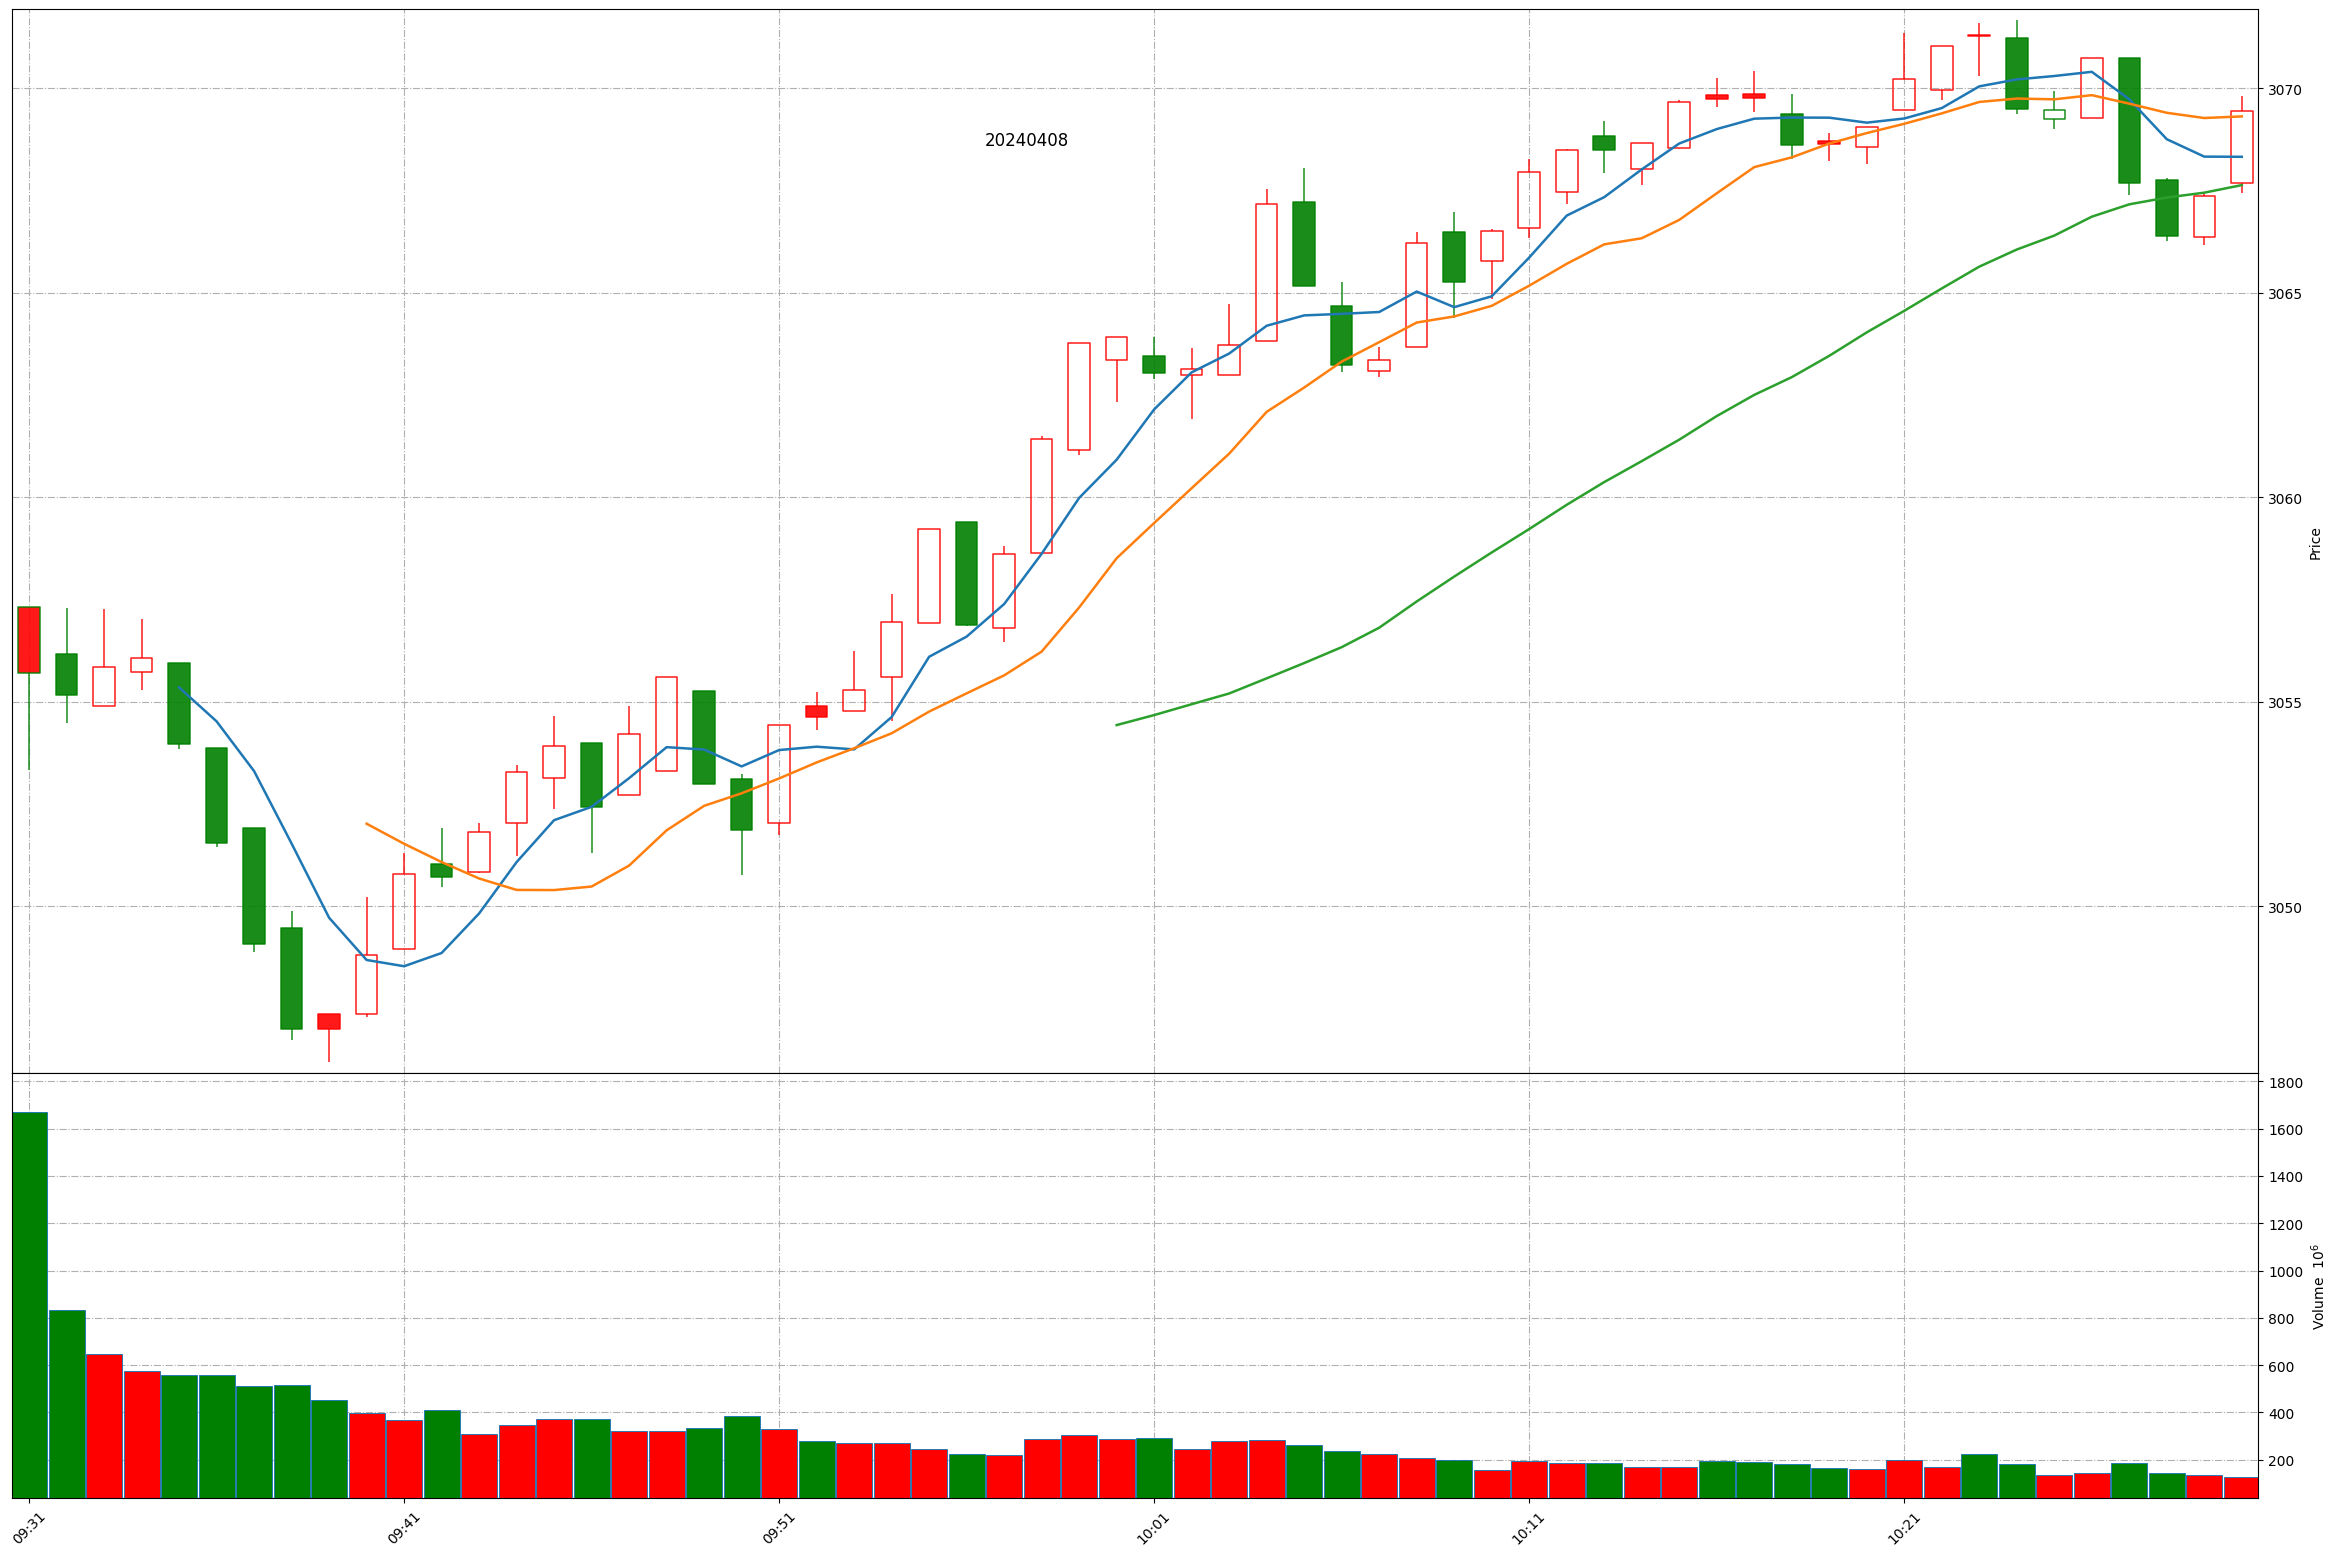
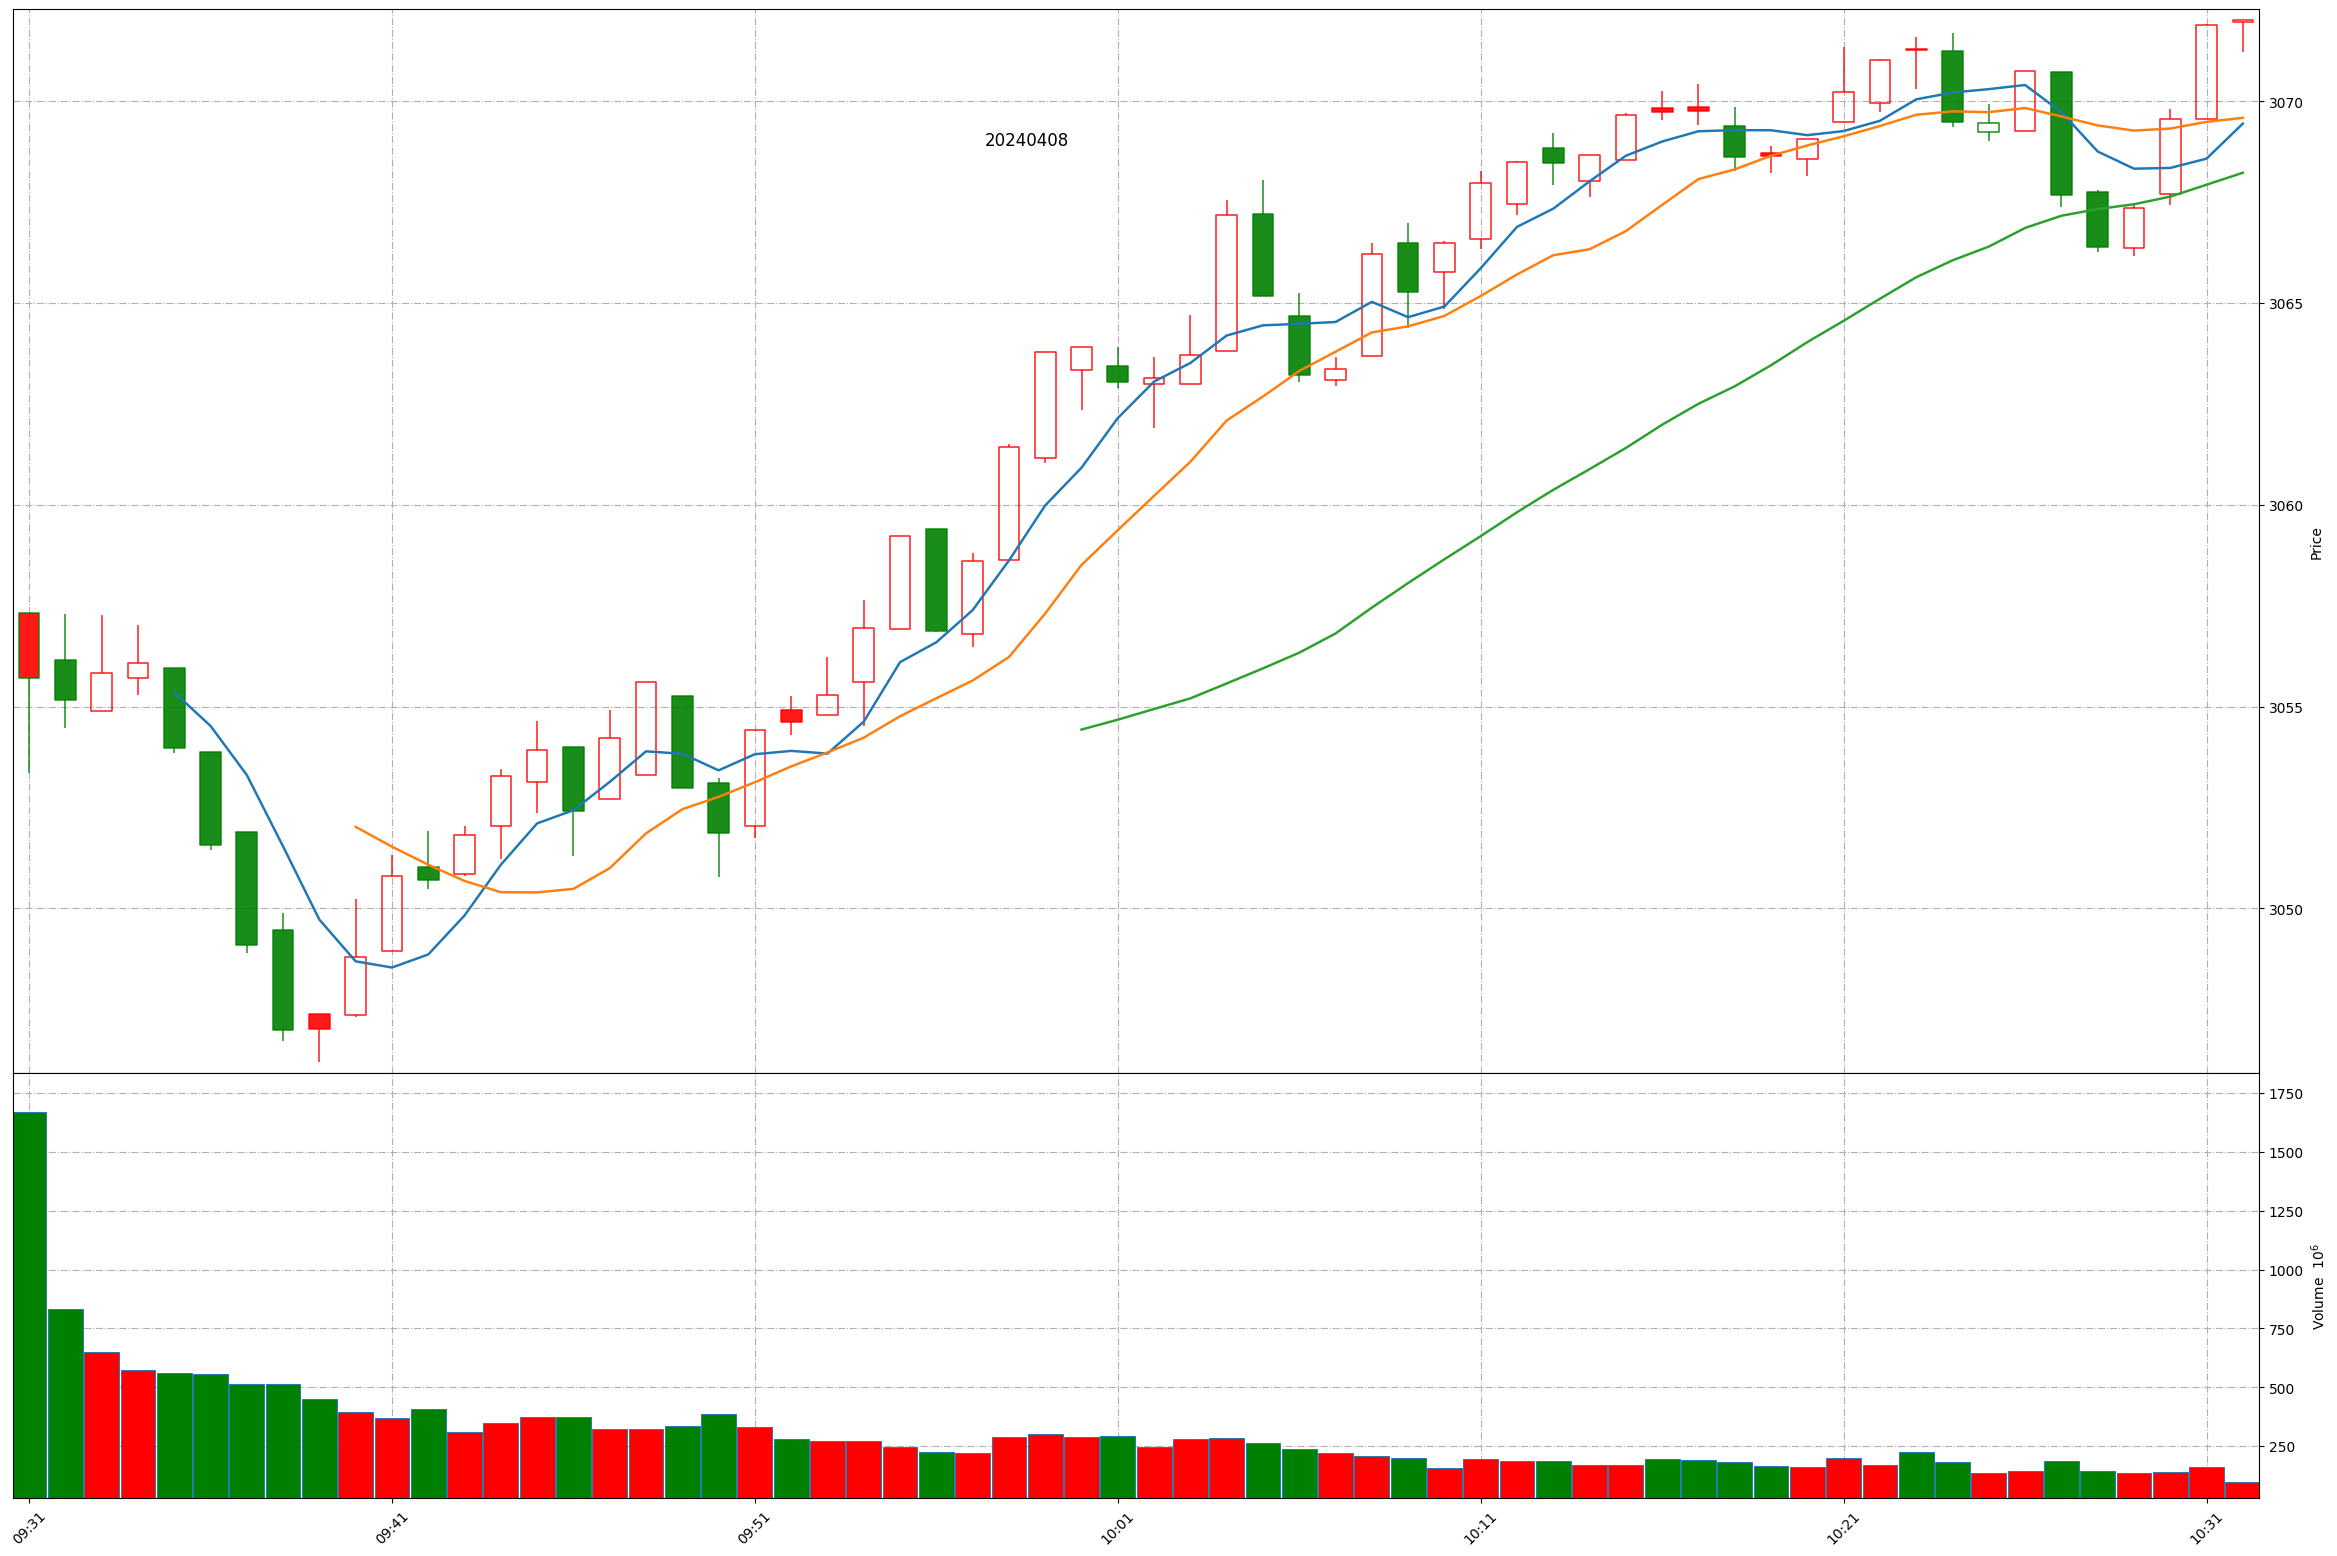
Github action update at 2024-04-08 10:32:03.

diff --git a/README.md b/README.md
@@ -1,11 +1,11 @@
 
 # Daily-A-share-market-quotes 每日 A 股指数（5min 更新）- 20240408
 
-### 上证指数 20240408 10:30
+### 上证指数 20240408 10:32
 ![](./fig/2024/4/20240408-sh000001.png)
 
-### 深证成指 20240408 10:30
+### 深证成指 20240408 10:32
 ![](./fig/2024/4/20240408-sz399001.png)
 
-### 北证50 20240408 10:30
+### 北证50 20240408 10:32
 ![](./fig/2024/4/20240408-bj899050.png)
